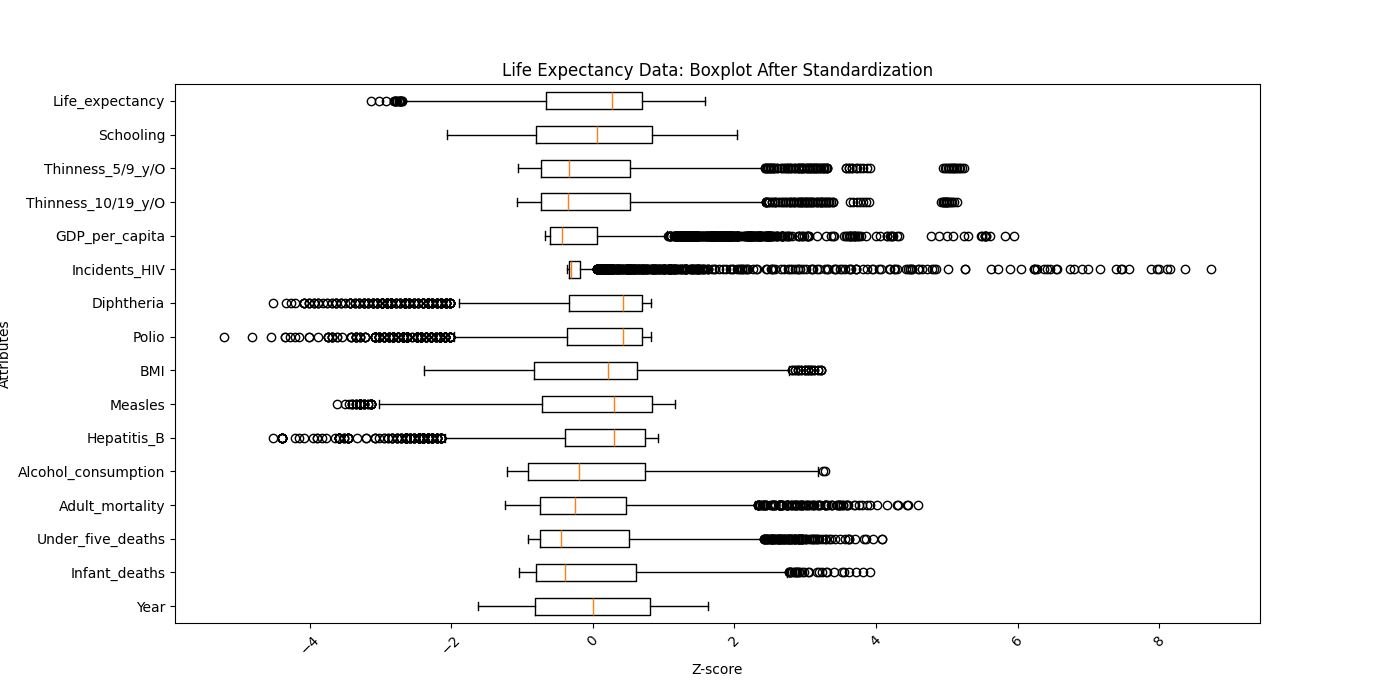
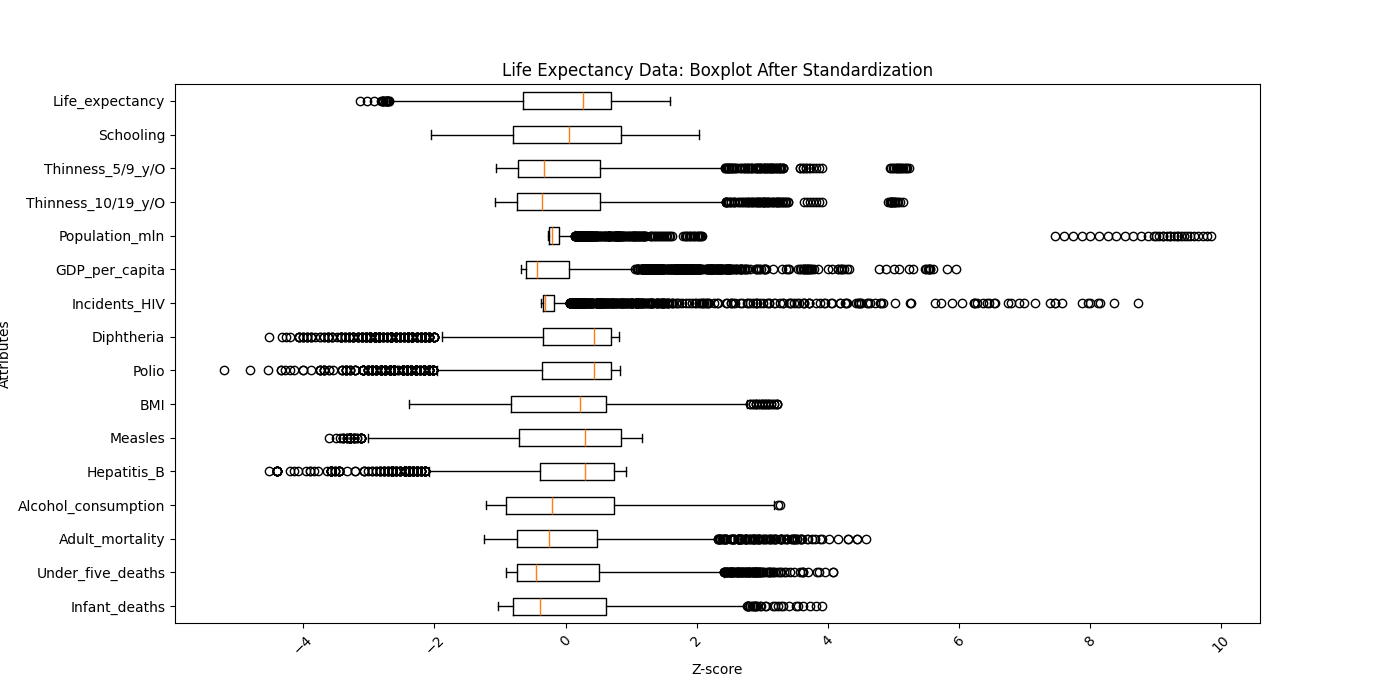
ouliers with population

diff --git a/task_3/outliers.py b/task_3/outliers.py
@@ -10,7 +10,7 @@ dataset = pd.read_csv("Life-Expectancy-Data.csv")
 #dataset.head()
 
 continuous_attributes = [
-                                    'Year', 'Infant_deaths', 'Under_five_deaths', 'Adult_mortality', 'Alcohol_consumption', 
+                                     'Infant_deaths', 'Under_five_deaths', 'Adult_mortality', 'Alcohol_consumption', 
                                     'Hepatitis_B', 'Measles', 'BMI', 'Polio', 'Diphtheria', 'Incidents_HIV', 'GDP_per_capita', 
                                     'Population_mln', 'Thinness_ten_nineteen_years', 'Thinness_five_nine_years', 'Schooling', 
                                     'Life_expectancy'
@@ -19,8 +19,7 @@ continuous_attributes = [
 
 
 continuous_data = dataset[continuous_attributes]
-#I removed Population from the data plus all the categorical attributes because the population cannot have outliers.
-X = continuous_data.drop('Population_mln', axis=1)
+X = dataset[continuous_attributes]
 # Rename the columns to fit in the plot
 X = X.rename(columns={
     'Thinness_ten_nineteen_years': 'Thinness_10/19_y/O',
